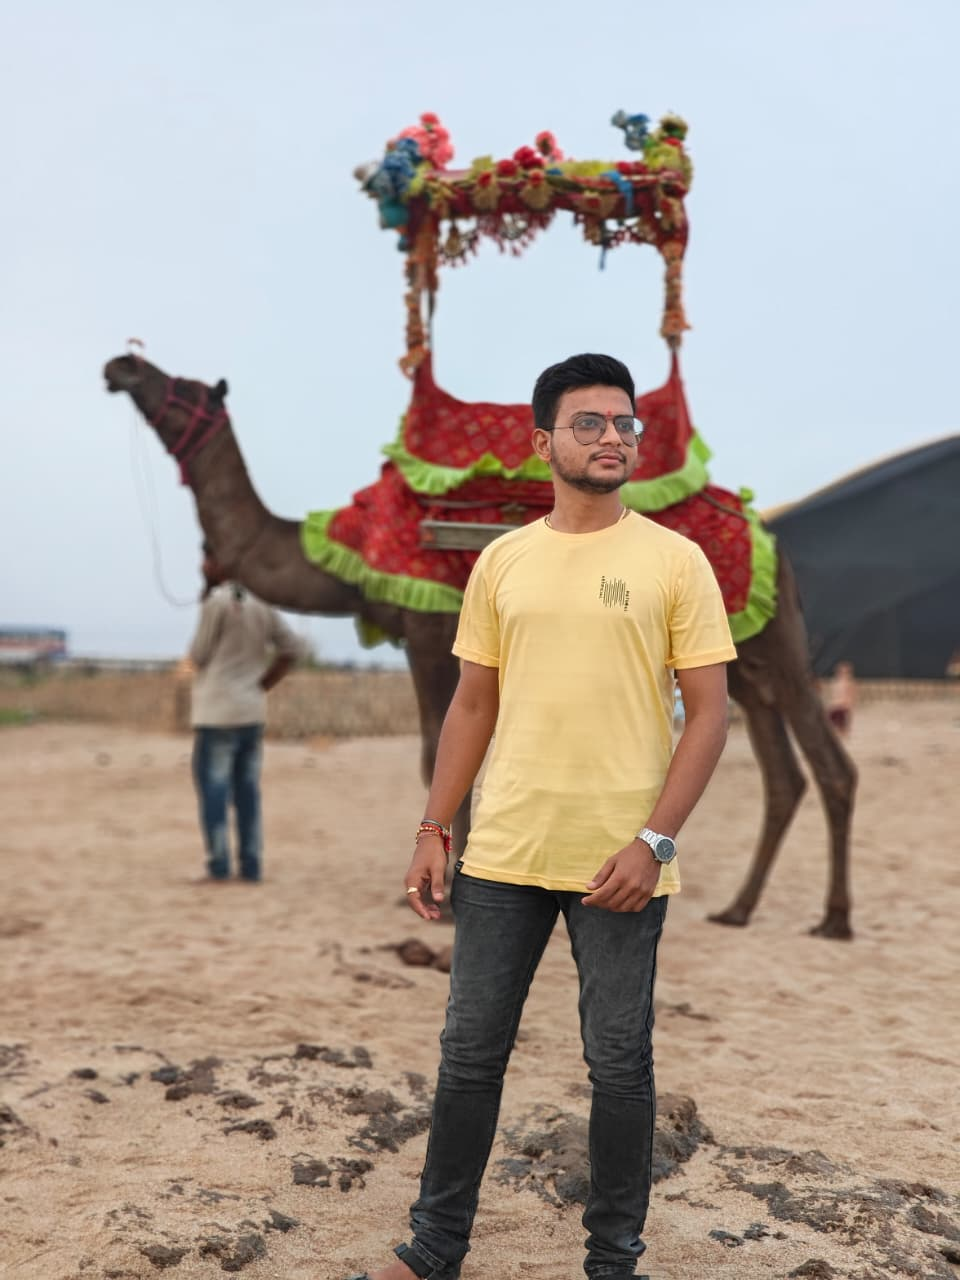
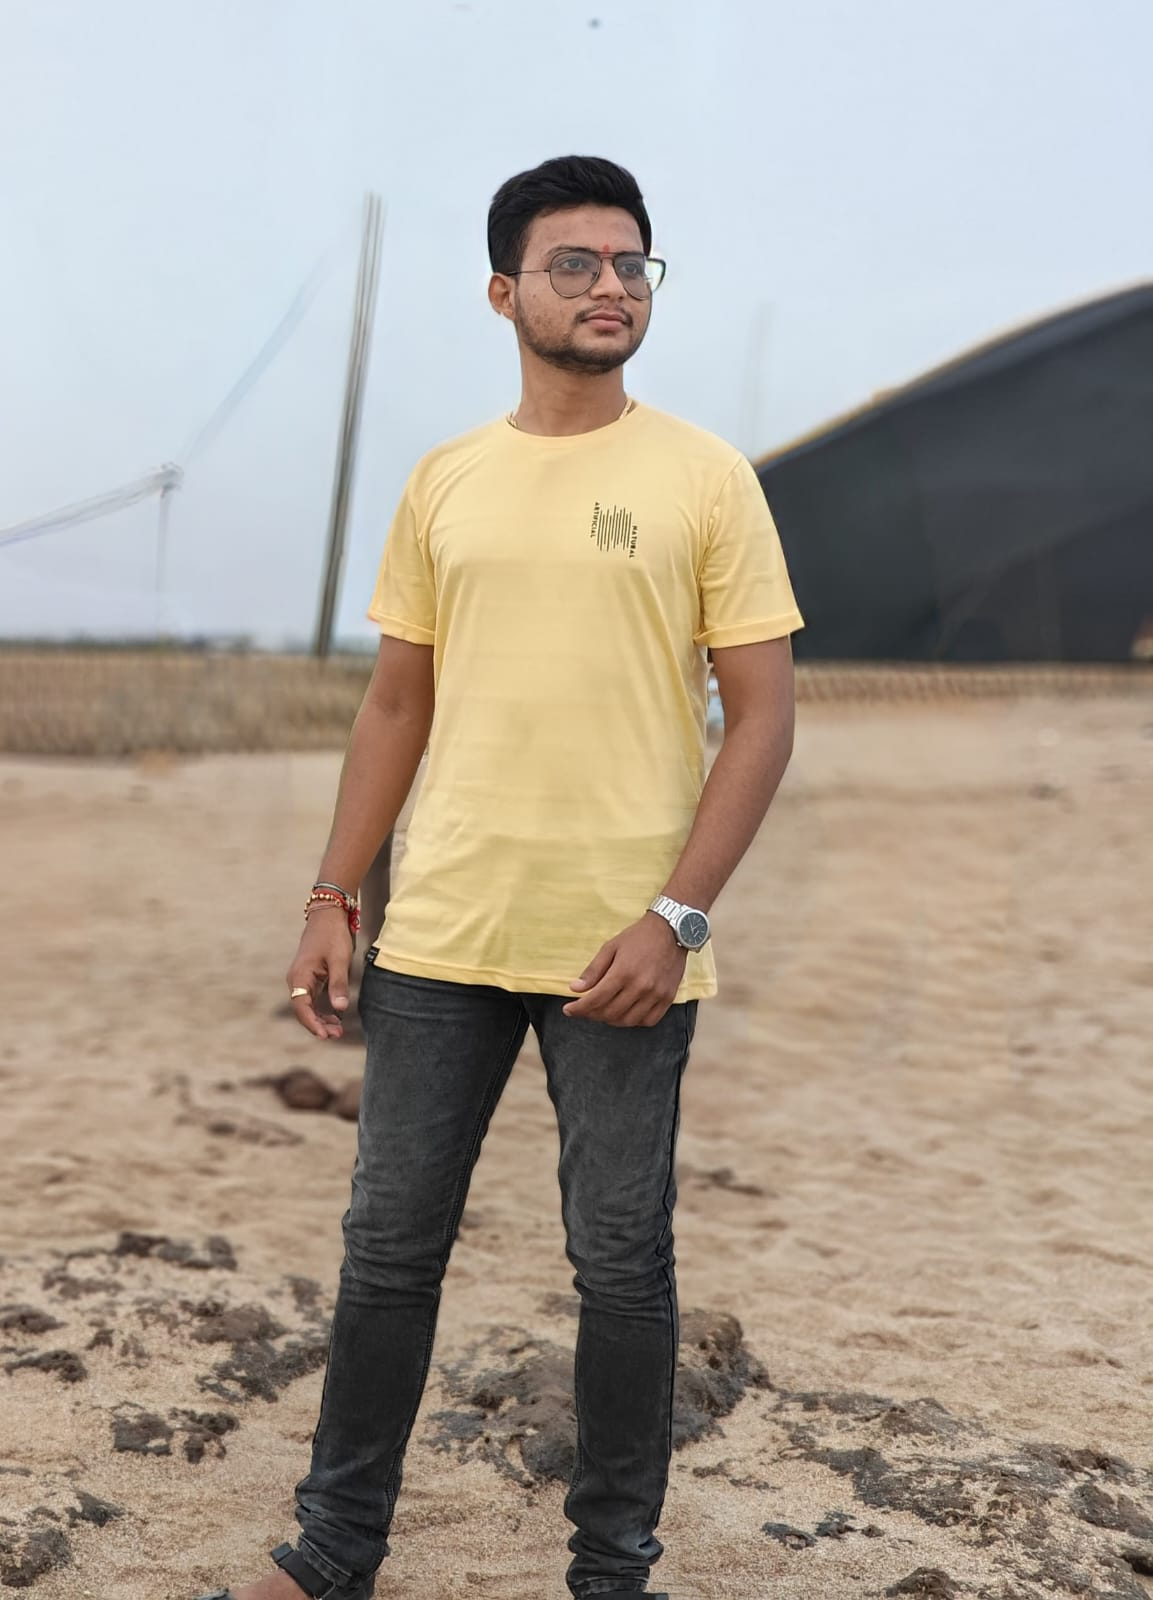
seo and styling

diff --git a/src/components/Intro/Intro.jsx b/src/components/Intro/Intro.jsx
@@ -1,26 +1,23 @@
-import { useState } from 'react';
+import { useState } from "react";
 
 const Intro = () => {
   const [showPdf, setShowPdf] = useState(false);
 
   return (
     <section
-      id="intro"
+      id="home"
       className="flex flex-col lg:flex-row items-center justify-center mt-10 px-4 sm:px-6 md:px-10 text-center lg:text-left w-full max-w-7xl mx-auto"
     >
       {/* Intro Text Content */}
       <div className="max-w-lg sm:max-w-xl lg:max-w-2xl space-y-6">
-        {/* ✅ SEO: Main Heading */}
         <h1 className="text-white text-4xl sm:text-5xl lg:text-6xl font-bold leading-snug">
           Raxit Zora – Full Stack Developer, AI & Cybersecurity Enthusiast
         </h1>
 
-        {/* ✅ Changed from h2 to p to maintain <h1> hierarchy */}
         <p className="text-gray-400 text-xl sm:text-2xl font-semibold leading-tight">
           I design scalable full-stack applications with a focus on AI integration and cybersecurity best practices.
         </p>
 
-        {/* ✅ SEO keyword-enhanced description */}
         <p className="text-gray-200 text-lg sm:text-xl font-light leading-relaxed">
           Passionate about building intelligent web solutions using React, Node.js, MongoDB, Python, and securing them with ethical hacking knowledge. Based in India.
         </p>
@@ -39,13 +36,17 @@ const Intro = () => {
         </button>
       </div>
 
-      {/* Profile Image */}
+      {/* Profile Image with moving red light effect */}
       <div className="mt-10 lg:mt-0 lg:ml-12 flex justify-center">
-        <img
-          src="/assets/me.jpg"
-          alt="Raxit Zora profile picture"
-              className="w-40 sm:w-56 md:w-64 lg:w-80 max-w-full aspect-square object-contain rounded-full border-4 border-gray-300 shadow-lg hover:border-yellow-600 hover:scale-105 transition-all duration-300 bg-black"
-  />
+        <div className="gradient-border">
+              <span className="red-snake-ring"></span>
+
+          <img
+            src="/assets/op-image.jpg"
+            alt="Raxit Zora profile picture"
+            className="w-40 sm:w-56 md:w-64 lg:w-80 max-w-full object-cover shadow-lg"
+          />
+        </div>
       </div>
 
       {/* PDF Modal Viewer */}
@@ -71,6 +72,29 @@ const Intro = () => {
           </div>
         </div>
       )}
+
+      {/* 🔥 Custom Animation Styles */}
+      <style jsx>{`
+        @keyframes glowing {
+          0% {
+            box-shadow: 0 0 5px red, 0 0 10px red, 0 0 20px red,
+              0 0 40px rgba(255, 0, 0, 0.8);
+          }
+          50% {
+            box-shadow: 0 0 20px red, 0 0 40px red, 0 0 60px rgba(255, 0, 0, 0.9),
+              0 0 80px rgba(255, 0, 0, 1);
+          }
+          100% {
+            box-shadow: 0 0 5px red, 0 0 10px red, 0 0 20px red,
+              0 0 40px rgba(255, 0, 0, 0.8);
+          }
+        }
+
+        .animate-glow {
+          border-radius: 9999px;
+          animation: glowing 2s linear infinite;
+        }
+      `}</style>
     </section>
   );
 };

diff --git a/index.html b/index.html
@@ -8,14 +8,15 @@
 
     <!-- Favicon -->
     <link rel="icon" type="image/jpg" href="/assets/me.jpg" />
+    
     <link rel="manifest" href="/manifest.json" />
 
 
     <!-- Title & Primary Meta -->
-    <title>Raxit Zora | Full Stack Developer | Cybersecurity | AI Enthusiast</title>
-    <meta name="title" content="Raxit Zora | Full Stack Developer | Cybersecurity | AI Enthusiast" />
-    <meta name="description" content="Welcome to the official portfolio of Raxit Zora — Full Stack Developer and AI/Cybersecurity Enthusiast. Explore projects, skills, and experience." />
-    <meta name="keywords" content="Raxit Zora, Full Stack Developer, Cybersecurity, AI, React Developer, Portfolio, JavaScript, MongoDB, Python, PyTorch, Next.js, LangChain, HuggingFace, GitHub, Ethical Hacking" />
+    <title>Raxit Zora | Full Stack Engineer | Cybersecurity | AI Enthusiast</title>
+    <meta name="title" content="Raxit Zora | Full Stack Engineer | Cybersecurity | AI Enthusiast" />
+    <meta name="description" content="Welcome to the official portfolio of Raxit Zora — Full Stack Engineer and AI/Cybersecurity Enthusiast. Explore projects, skills, and experience." />
+    <meta name="keywords" content="Raxit Zora, Full Stack Engineer, Cybersecurity, AI, React Developer, Portfolio, JavaScript, MongoDB, Python, PyTorch, Next.js, LangChain, HuggingFace, GitHub, Ethical Hacking, fastapi, mobile dev, zora raxit, zora, raxit />
     <meta name="author" content="Raxit Zora" />
     <meta name="robots" content="index, follow" />
     <link rel="canonical" href="https://raxitzora.vercel.app/" />
@@ -23,15 +24,13 @@
     <!-- Open Graph / Facebook -->
     <meta property="og:type" content="website" />
     <meta property="og:url" content="https://raxitzora.vercel.app/" />
-    <meta property="og:title" content="Raxit Zora | Full Stack Developer" />
+    <meta property="og:title" content="Raxit Zora | Full Stack Engineer" />
     <meta property="og:description" content="Explore the portfolio of Raxit Zora — AI & Cybersecurity Enthusiast. Check out projects and skills in modern web development." />
     <meta property="og:image" content="https://raxitzora.vercel.app/assets/op-image.jpg" />
     <meta property="og:image" content="https://raxitzora.vercel.app/assets/raxit1.jpg" />
     <meta property="og:image" content="https://raxitzora.vercel.app/assets/raxit2.jpg" />
     <meta property="og:image" content="https://raxitzora.vercel.app/assets/raxit3.jpg" />
     <meta property="og:image" content="https://raxitzora.vercel.app/assets/raxit4.jpg" />
-
-
 
 
     <!-- YouTube Link Preview (Open Graph fallback) -->

diff --git a/src/components/Skills/Skills.jsx b/src/components/Skills/Skills.jsx
@@ -7,6 +7,9 @@ import {
   SiLangchain,
   SiHuggingface,
   SiPostgresql,
+  SiKalilinux,
+  SiFastapi  ,
+  SiDocker 
 } from "react-icons/si";
 import {
   TbBrandJavascript,
@@ -74,6 +77,21 @@ const skills = [
     icon: <TbBrandFramerMotion size={60} className="text-yellow-300" aria-hidden="true" />,
     name: "Framer Motion",
     desc: "Animation library for React used to create smooth and interactive UI transitions.",
+  },
+  {
+    icon: <SiKalilinux size={60} className="text-white" aria-hidden="true" />,
+    name: "Kali-Linux",
+    desc: "A leading Linux distribution for penetration testing, ethical hacking, and cybersecurity research.",
+  },
+   {
+    icon: <SiFastapi size={60} className="text-[#079487]" aria-hidden="true" />,
+    name: "FastAPI",
+    desc: "A modern, fast Python web framework for building high-performance APIs with ease and reliability.",
+  },
+  {
+    icon: <SiDocker  size={60} className="text-blue-500" aria-hidden="true" />,
+    name: "Docker",
+    desc: "A powerful containerization platform that simplifies application deployment, scaling, and management.",
   },
 ];
 

diff --git a/src/index.css b/src/index.css
@@ -1,7 +1,49 @@
 @import "tailwindcss";
 
+body {
+  background-color: black;
+}
 
+@keyframes rotateBorder {
+  0% {
+    transform: rotate(0deg);
+  }
+  100% {
+    transform: rotate(360deg);
+  }
+}
 
-body{
-    background-color: black;
+.gradient-border {
+  position: relative;
+  border-radius: 16px; /* rounded corners */
+  padding: 5px; /* border thickness */
+  background: white; /* inner background for image */
+  overflow: hidden;
+}
+
+/* Animated border using ::before */
+.gradient-border::before {
+  content: "";
+  position: absolute;
+  top: -50%;
+  left: -50%;
+  width: 200%;
+  height: 200%;
+  background: conic-gradient(
+    from 0deg,
+    #ff0057,
+    #ffae00,
+    #00f0ff,
+    #9d00ff,
+    #ff0057
+  );
+  animation: rotateBorder 4s linear infinite;
+  z-index: 0;
+}
+
+/* Keep the inside (your image) above the rotating border */
+.gradient-border > * {
+  position: relative;
+  z-index: 1;
+  border-radius: 12px; /* keeps image nicely rounded inside */
 }
